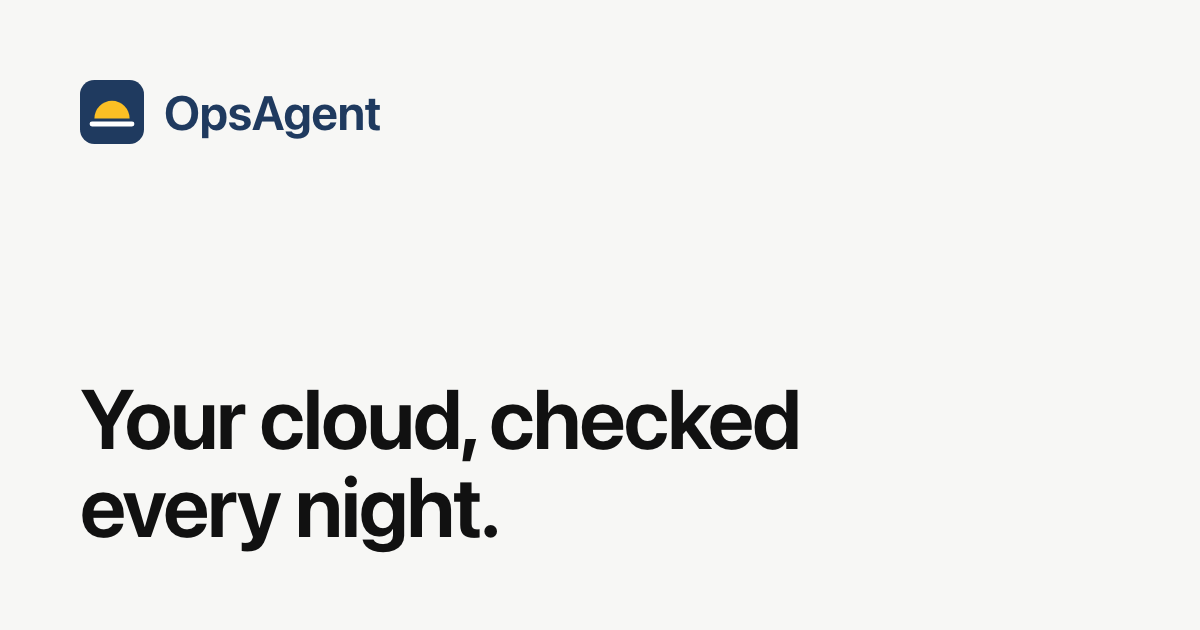
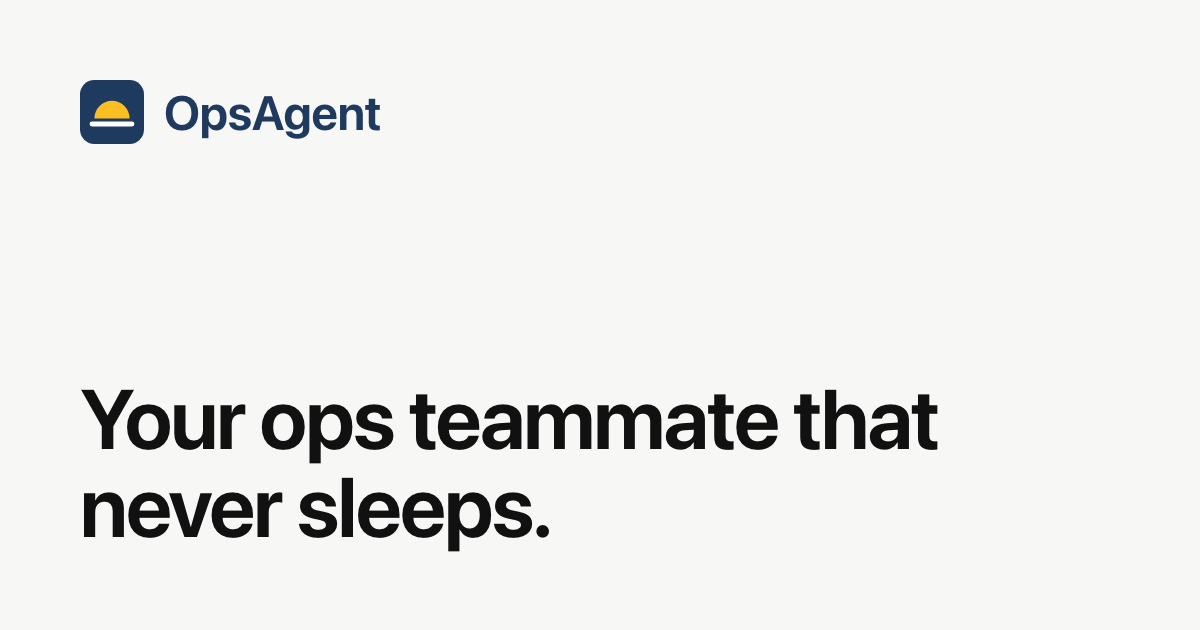
feat(marketing): home page tells the 24/7 story

Changed region(s): [[0.2467, 0.6032, 0.8017, 0.754], [0.0617, 0.754, 0.4625, 0.8746]]

diff --git a/app/(marketing)/page.tsx b/app/(marketing)/page.tsx
@@ -1,7 +1,15 @@
 import Link from "next/link";
 import { WaitlistForm } from "@/components/marketing/WaitlistForm";
 import { BriefingCard } from "@/components/marketing/BriefingCard";
+import { AlertCard } from "@/components/marketing/AlertCard";
+import { ComingSoon } from "@/components/marketing/ComingSoon";
 import { MCP_URL } from "@/lib/agents";
+
+const DAY_NIGHT = [
+  { title: "While you sleep", body: "Checks keep running.", soon: true },
+  { title: "When it's urgent", body: "An alert in Slack or the app.", soon: true },
+  { title: "Every morning", body: "One short briefing, skipped when nothing changed.", soon: false },
+];
 
 const STEPS = [
   {
@@ -9,12 +17,12 @@ const STEPS = [
     body: "Create a role in one click. It can read how your cloud is set up and what it costs, and it physically cannot read your data.",
   },
   {
-    title: "Nightly checks",
-    body: "Every night, deterministic checks run against your account. Fixed rules decide what is wrong, with no AI guessing.",
+    title: "Checks run",
+    body: "Deterministic checks run against your account. Fixed rules decide what is wrong, with no AI guessing. Every night today; around the clock is coming.",
   },
   {
-    title: "Morning briefing",
-    body: "In Slack, exceptions only, and skipped when nothing changed, plus a weekly report. Every finding cites its evidence.",
+    title: "Briefing, and alerts later",
+    body: "A morning briefing in Slack, exceptions only and skipped when nothing changed, plus a weekly report. Urgent alerts are coming soon.",
   },
 ];
 
@@ -34,19 +42,23 @@ const CHECKS = [
 const NEVER = [
   ["Write to your infrastructure", "Its role has no write permissions, so it cannot change, stop or delete anything."],
   ["Read your data", "It never reads objects, rows or secrets; only configuration, metadata and billing."],
-  ["Page you at 3am", "There is no on-call and no night alert. Findings wait for your morning briefing."],
+  ["Spam you with noise", "Only urgent findings will ever interrupt you, and only on the channels you choose. Everything else waits for your morning briefing."],
   ["Resell AI", "You bring your own agent or model key, and pay your AI provider directly."],
 ];
 
 export default function Home() {
   return (
     <main>
-      <section className="hero">
+      <section className="hero" id="waitlist">
         <div className="hero-text">
-          <h1>Your cloud, checked every night.</h1>
+          <h1>Your ops teammate that never sleeps.</h1>
           <p className="lead">
-            A read-only agent for teams with no ops person. Every morning you get a short briefing of what&apos;s wrong
-            and why. It never changes anything.
+            OpsAgent watches your cloud day and night, read-only. Urgent problems reach you the moment they matter.
+            Everything else waits for a calm morning briefing. It never changes anything.
+          </p>
+          <p className="hero-note">
+            Around-the-clock checks and instant alerts are coming soon; nightly checks and the morning briefing are what
+            alpha users get today.
           </p>
           <WaitlistForm source="landing-hero" />
           <p className="hero-who">
@@ -54,7 +66,23 @@ export default function Home() {
             infrastructure when the contractor left.
           </p>
         </div>
-        <BriefingCard />
+        <div className="hero-cards">
+          <AlertCard />
+          <BriefingCard />
+        </div>
+      </section>
+
+      <section className="section" aria-labelledby="day-night-h">
+        <h2 id="day-night-h">While you sleep, and when you wake</h2>
+        <ul className="daynight">
+          {DAY_NIGHT.map((d) => (
+            <li key={d.title}>
+              <h3>{d.title}</h3>
+              <p>{d.body}</p>
+              {d.soon && <ComingSoon />}
+            </li>
+          ))}
+        </ul>
       </section>
 
       <section className="section" id="how-it-works" aria-labelledby="how-it-works-h">
@@ -67,6 +95,9 @@ export default function Home() {
             </li>
           ))}
         </ol>
+        <p className="section-more">
+          <Link href="/how-it-works">See how it works</Link>
+        </p>
       </section>
 
       <section className="section split" id="what-it-checks" aria-labelledby="what-it-checks-h">
@@ -99,6 +130,11 @@ export default function Home() {
         </ul>
       </section>
 
+      <section className="section mobile-strip" aria-labelledby="mobile-h">
+        <h2 id="mobile-h">OpsAgent for iOS and Android: alerts and briefings in your pocket.</h2>
+        <ComingSoon />
+      </section>
+
       <section className="section split" id="bring-your-own-ai" aria-labelledby="byo-h">
         <div>
           <h2 id="byo-h">Bring your own AI</h2>
@@ -120,7 +156,7 @@ export default function Home() {
       </section>
 
       <section className="section closing" aria-labelledby="closing-h">
-        <h2 id="closing-h">Start your mornings knowing what changed.</h2>
+        <h2 id="closing-h">Get your ops teammate.</h2>
         <p className="section-lead">
           The alpha opens to a few teams at a time. Join the waitlist and we will email you when your spot is ready.
         </p>

diff --git a/app/(marketing)/marketing.css b/app/(marketing)/marketing.css
@@ -142,6 +142,11 @@ body:has(.mkt) { background: #f7f7f5; }
 .mkt .cites { margin-top: 4px; font-size: 13.5px; line-height: 1.45; color: var(--soft); }
 .mkt .briefing-foot { padding: 14px 22px; background: #fafaf8; border-top: 1px solid var(--line); font-size: 13px; color: var(--soft); }
 
+.mkt .hero-note { margin-top: 14px; font-size: 14px; color: var(--soft); max-width: 34em; }
+.mkt .hero-cards { display: grid; gap: 20px; }
+.mkt .alert-body { display: flex; gap: 14px; padding: 18px 22px; }
+.mkt .alert .briefing-foot { margin: 0; }
+
 /* Sections */
 .mkt .section { padding: 96px 0; border-top: 1px solid var(--line); scroll-margin-top: 24px; }
 .mkt .section h2 { font-size: clamp(28px, 1.6vw + 18px, 36px); line-height: 1.15; letter-spacing: -0.025em; }
@@ -150,6 +155,10 @@ body:has(.mkt) { background: #f7f7f5; }
 .mkt .split { display: grid; grid-template-columns: minmax(0, 1fr) minmax(0, 2fr); gap: 64px; align-items: start; }
 
 /* How it works: a real sequence, so the steps are numbered */
+.mkt .daynight { display: grid; grid-template-columns: repeat(3, minmax(0, 1fr)); gap: 48px; margin-top: 40px; }
+.mkt .daynight p { margin: 8px 0 12px; color: var(--body); }
+.mkt .section-more { margin-top: 32px; }
+.mkt .mobile-strip h2 { max-width: 24ch; margin-bottom: 16px; }
 .mkt .steps { counter-reset: step; display: grid; grid-template-columns: repeat(3, minmax(0, 1fr)); gap: 48px; margin-top: 48px; }
 .mkt .steps li { counter-increment: step; }
 .mkt .steps li::before {
@@ -230,7 +239,7 @@ body:has(.mkt) { background: #f7f7f5; }
 
 @media (max-width: 800px) {
   .mkt .hero { grid-template-columns: minmax(0, 1fr); gap: 56px; padding: 40px 0 72px; }
-  .mkt .split, .mkt .steps, .mkt .checks, .mkt .never ul { grid-template-columns: minmax(0, 1fr); }
+  .mkt .split, .mkt .steps, .mkt .daynight, .mkt .checks, .mkt .never ul { grid-template-columns: minmax(0, 1fr); }
   .mkt .split { gap: 32px; }
   .mkt .steps { gap: 36px; margin-top: 36px; }
   .mkt .checks li:nth-child(2) { border-top: 1px solid var(--line); padding-top: 22px; }

diff --git a/tests/e2e/landing.spec.ts b/tests/e2e/landing.spec.ts
@@ -5,9 +5,21 @@ const MAILPIT = process.env.MAILPIT_URL ?? "http://localhost:8025";
 
 test("landing renders every section", async ({ page }) => {
   await page.goto("/");
-  await expect(page.getByRole("heading", { name: "Your cloud, checked every night." })).toBeVisible();
+  await expect(page.getByRole("heading", { level: 1, name: "Your ops teammate that never sleeps." })).toBeVisible();
   await expect(page.getByText("Sample briefing")).toBeVisible();
-  for (const name of [/how it works/i, /what it checks/i, /what it will never do/i, /bring your own ai/i]) {
+  await expect(page.getByText("Sample alert")).toBeVisible();
+  await expect(page.locator("section#waitlist")).toHaveClass(/hero/);
+  expect(await page.locator(".soon").count()).toBeGreaterThanOrEqual(3);
+  await expect(page.getByText("page you at 3am", { exact: false })).toHaveCount(0);
+  for (const name of [
+    /while you sleep/i,
+    /how it works/i,
+    /what it checks/i,
+    /what it will never do/i,
+    /ios and android/i,
+    /bring your own ai/i,
+    /get your ops teammate/i,
+  ]) {
     await expect(page.getByRole("heading", { level: 2, name })).toBeVisible();
   }
   await expect(page.locator("#what-it-checks li")).toHaveCount(10);
@@ -17,7 +29,7 @@ test("landing renders every section", async ({ page }) => {
 test("landing fits a 360px phone", async ({ page }) => {
   await page.setViewportSize({ width: 360, height: 740 });
   await page.goto("/");
-  await expect(page.getByRole("heading", { name: "Your cloud, checked every night." })).toBeVisible();
+  await expect(page.getByRole("heading", { name: "Your ops teammate that never sleeps." })).toBeVisible();
   expect(await page.evaluate(() => document.documentElement.scrollWidth)).toBeLessThanOrEqual(360);
 });
 

diff --git a/components/marketing/AlertCard.tsx b/components/marketing/AlertCard.tsx
@@ -1,0 +1,30 @@
+import { Mark } from "@/components/brand/Logo";
+import { ComingSoon } from "@/components/marketing/ComingSoon";
+
+/** Static example of an urgent alert; invented, so it is labelled as a sample and tagged Coming soon. */
+export function AlertCard() {
+  return (
+    <figure className="briefing alert" aria-label="Sample alert">
+      <div className="briefing-head">
+        <Mark size={28} />
+        <div>
+          <p className="briefing-title">Urgent alert</p>
+          <p className="briefing-meta">03:12</p>
+        </div>
+        <span className="briefing-sample">Sample alert</span>
+      </div>
+      <div className="alert-body">
+        <span className="dot dot-bad" role="img" aria-label="Critical" />
+        <div>
+          <p className="finding">
+            Database <code>prod-db</code> snapshot left public
+          </p>
+          <p className="cites">Sent to #ops right away</p>
+        </div>
+      </div>
+      <p className="briefing-foot">
+        <ComingSoon />
+      </p>
+    </figure>
+  );
+}
